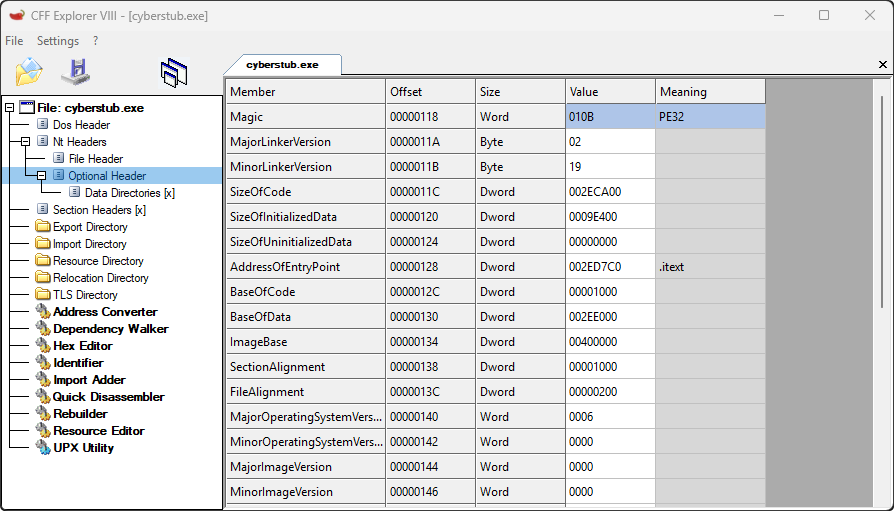
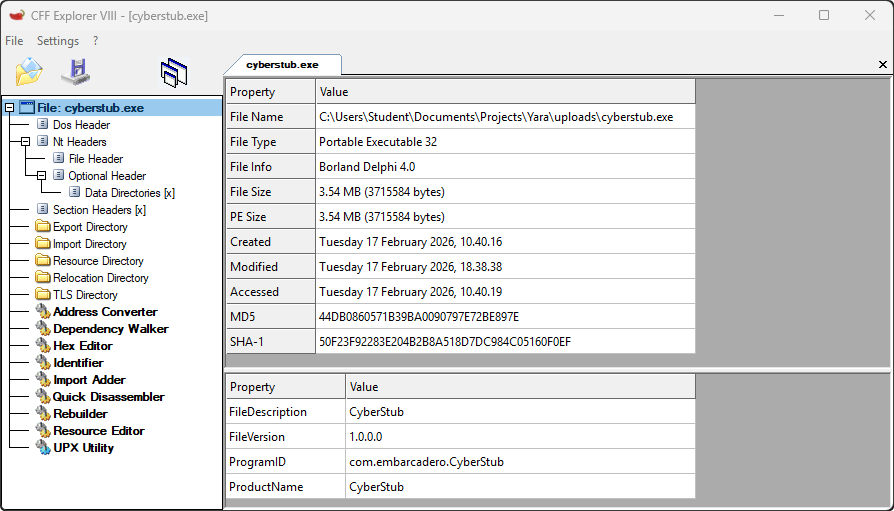
Quartz sync: Mar 9, 2026, 8:22 PM

diff --git a/content/Blog/0036 Detecting Malware with Yara Rules (Part 2).md b/content/Blog/0036 Detecting Malware with Yara Rules (Part 2).md
@@ -1,43 +1,43 @@
 ---
 title: "Detecting Malwares with Yara Rules (Part 2)"
-created: 2026-02-29
-modified: 2026-02-29
+created: 2026-03-09
+modified: 2026-03-09
 tags: ["yara", "python", "siem"]
-draft: true
+draft: false
 ---
 
 ## Introduction
 
-This is a continuation of [[0034 Detecting Malwares with Yara Rules (Part 1).md | Detecting Malware with Yara Rules (Part 1)]] but in this article I'll go through detecting real malwares using Yara Rules by using the PE Header from these exectuables. I would highly recommend reading through the previous blog post as it builds ontop of this one.
+This is a continuation of the [[0034 Detecting Malwares with Yara Rules (Part 1).md | Detecting Malware with Yara Rules (Part 1)]] article. In this article I'll go through detecting real malwares using Yara Rules by using the PE Header from these executables. If you haven't read through the previous article I would highly recommend to do so as it builds upon this one.
 
 ## PE Header
 
-The PE Header has a-lot of information about the application such as Product Information, Import Table, Export Table, and Operating System Version. Instead of identifying malicious files in our systems by using file hashes - which can be bypassed by changing a single byte. We can instead use the information from the PE Header to identify these malicious files.
+<image style="display:flex; width: 40%; margin: auto;align-items: center;justify-content: center;" src="0036 Detecting-Malware-with-Yara-Rules-01.svg"/>
 
-> [!IMPORTANT]+
-> Please use a Virtual Machine if you will perform these operations in a Virtual Machine.
+The PE Header of a process has a lot of information such as compilation metadata, import table, export table, and operating system version. Rather than relying on file hashes to identify threats within our environment, we can instead use the information in the PE Header.
 
 ## Example (CyberStub)
 
-The `CyberStub.exe` is a malicious application I downloaded through [Baazar Abuse CH](https://bazaar.abuse.ch/). We can analyze the PE Header of the malicious executable program using CFF Explorer. When we initially load `CyberStub.exe` we can view the product information that is applied to malicious file.
-
-![[0036 Detecting-Malware-with-Yara-Rules-01.png]]
-
-The `CyberStub.exe` has a `ProductName` attribute which we can use to detect other malicious files. We can now view the Optional Header which consists of compiler information.
+The `CyberStub.exe` is a malicious application I downloaded through [Baazar Abuse CH](https://bazaar.abuse.ch/). The CFF Explorer is an tool that allows us to inspect the PE Header of the application.
 
 ![[0036 Detecting-Malware-with-Yara-Rules-02.png]]
 
-Most threat actors uses the same compiler to compile their malicious executable programs so we can use the attributes `MajorLinkerVersion` and `MinorLinkerVersion` to also detect based on the compiler used. Here is all informations which we have about the malicious executable program:
+The `CyberStub.exe` has a `ProductName` attribute which we can use to detect the threat actor. Instead of relying on single attribute we can go to Optional Header and ensure the same compiler and linker were used to build these files.
+
+![[0036 Detecting-Malware-with-Yara-Rules-03.png]]
+
+Most threat actors uses the same compiler and linker to build their malicious executable programs so attributes such as `MajorLinkerVersion` and `MinorLinkerVersion` is useful to detect threats. Here are all the informations which we obtained from the PE Header:
 
 * `ProductName` = `CyberStub`
 * `MajorLinkerVersion` = `0x02`
 * `MinorLinkerVersion` = `0x19`
 
-Using all these informations we can now craft a Yara Rule to identify other files with similar attributes to ensure that we successfully cleaned up all the executables and libraries.
+
+Using all these informations we can now craft a Yara Rule to identify threats with similar attributes to ensure all our systems are secure.
 
 ## Yara Rule
 
-The Yara Rule is fairly simple it will analyze all the files and once the attributes `ProductName`, `MajorLinkerVersion`, and `MinorLinkerVersion` matches it will generate an alert to us.
+The Yara Rule is simple it will analyze all the files and once the attributes  `ProductName`, `MajorLinkerVersion`, and `MinorlinkerVersion` matches it will generate an alert to us.
 
 ```nginx title="rule.yara"
 import "pe"
@@ -93,8 +93,8 @@ ScanFiles("uploads/")
 [+] SHA256: 334c18a6a2d10c9fda30e5a3f99e23949aa761a1767d915d3922cd83daee5d05
 ```
 
-We successfully made a Yara Rule which will identify all files that is from a specific threat actor. The reason we are only using Product Information and Compiler Information to detect the threat actors is because these  will allow us to identify all types of files from `.exe` to `.dlls`.
+We successfully made a Yara Rule which will identify all files that is from a specific threat actors by using PE Header. The reason we are only using `ProductName`, `MajorLinkerVersion`, and `MinorLinkerVersion` is because these are just enough information to identify malicious executables and shared libaries.
 
 ## Conclusion
 
-Identifying malicious executable programs using their SHA-256 is ineffective since once a single byte is changed it will change the SHA-256 of the file. However, using Yara Rule with PE library we can analyze the malicious executable programs information and create detection rules for it. I'll be digging deeper into building more rules with Yara going into the future!
+Identifying maliicous files using SHA-256 is ineffecitve since the threat actors can change a single byte and it will change the SHA-256 of the file. However, using Yara Rules will force the threat actor to change `ProductName`, `MajorLinkerVersion`, and `MinorLinkerVersion`. Hopefully, this article helped you with understanding Yara rules more!

diff --git a/content/Projects/System Programming/0001 Kernel Programming Handling Input and Output Data.md b/content/Projects/System Programming/0001 Kernel Programming Handling Input and Output Data.md
@@ -26,6 +26,8 @@ NTSTATUS CompleteRequest(PIRP Irp, NTSTATUS status, NTSTATUS info);
 NTSTATUS DriverCreateClose(PDEVICE_OBJECT DeviceObject, PIRP Irp);
 NTSTATUS InsertProcess(UNICODE_STRING ProcessName);
 NTSTATUS DriverControl(PDEVICE_OBJECT DeviceObject, PIRP Irp);
+NTSTATUS RemoveProcess(UNICODE_STRING ProcessName);
+NTSTATUS IterateProcesses();
 
 extern "C" NTSTATUS DriverEntry(PDRIVER_OBJECT DriverObject, PUNICODE_STRING RegistryKey) {
 	UNREFERENCED_PARAMETER(DriverObject);
@@ -55,6 +57,13 @@ extern "C" NTSTATUS DriverEntry(PDRIVER_OBJECT DriverObject, PUNICODE_STRING Reg
 	DriverObject->MajorFunction[IRP_MJ_CLOSE]			= DriverCreateClose;
 
 	InitializeListHead(&g_ProcessListHead);
+	UNICODE_STRING exampleProcess1 = RTL_CONSTANT_STRING(L"brave.exe");
+	UNICODE_STRING exampleProcess2 = RTL_CONSTANT_STRING(L"cmd.exe");
+
+	InsertProcess(exampleProcess1);
+	InsertProcess(exampleProcess2);
+	IterateProcesses();
+	RemoveProcess(exampleProcess1);
 
 	return STATUS_SUCCESS;
 }
@@ -113,6 +122,42 @@ NTSTATUS InsertProcess(UNICODE_STRING ProcessName) {
 	KdPrint(("[+] Adding - ProcessName: %ws\n", entry->ProcessName.Buffer));
 
 	InsertTailList(&g_ProcessListHead, &entry->ListEntry);
+
+	return STATUS_SUCCESS;
+}
+
+NTSTATUS RemoveProcess(UNICODE_STRING ProcessName) {
+	LIST_ENTRY* e = g_ProcessListHead.Flink;
+
+	while (e != &g_ProcessListHead) {
+		ProcessList* entry = CONTAINING_RECORD(e, ProcessList, ListEntry);
+
+		if (RtlCompareUnicodeString(&entry->ProcessName, &ProcessName, TRUE) == 0) {
+			RemoveEntryList(e);
+
+			KdPrint(("[-] RemoveProcess - ProcessName : %ws\n", entry->ProcessName.Buffer));
+
+			if (entry->ProcessName.Buffer) {
+				ExFreePoolWithTag(entry->ProcessName.Buffer, 'c0rp');
+			}
+
+			ExFreePoolWithTag(entry, 'c0rp');
+		}
+
+		e = e->Flink;
+	}
+
+	return STATUS_SUCCESS;
+}
+
+NTSTATUS IterateProcesses() {
+	LIST_ENTRY* e = g_ProcessListHead.Flink;
+
+	while (e != &g_ProcessListHead) {
+		ProcessList* entry = CONTAINING_RECORD(e, ProcessList, ListEntry);
+		KdPrint(("[#] IterateProcess - Process Name: %ws\n", entry->ProcessName.Buffer));
+		e = e->Flink;
+	}
 
 	return STATUS_SUCCESS;
 }
